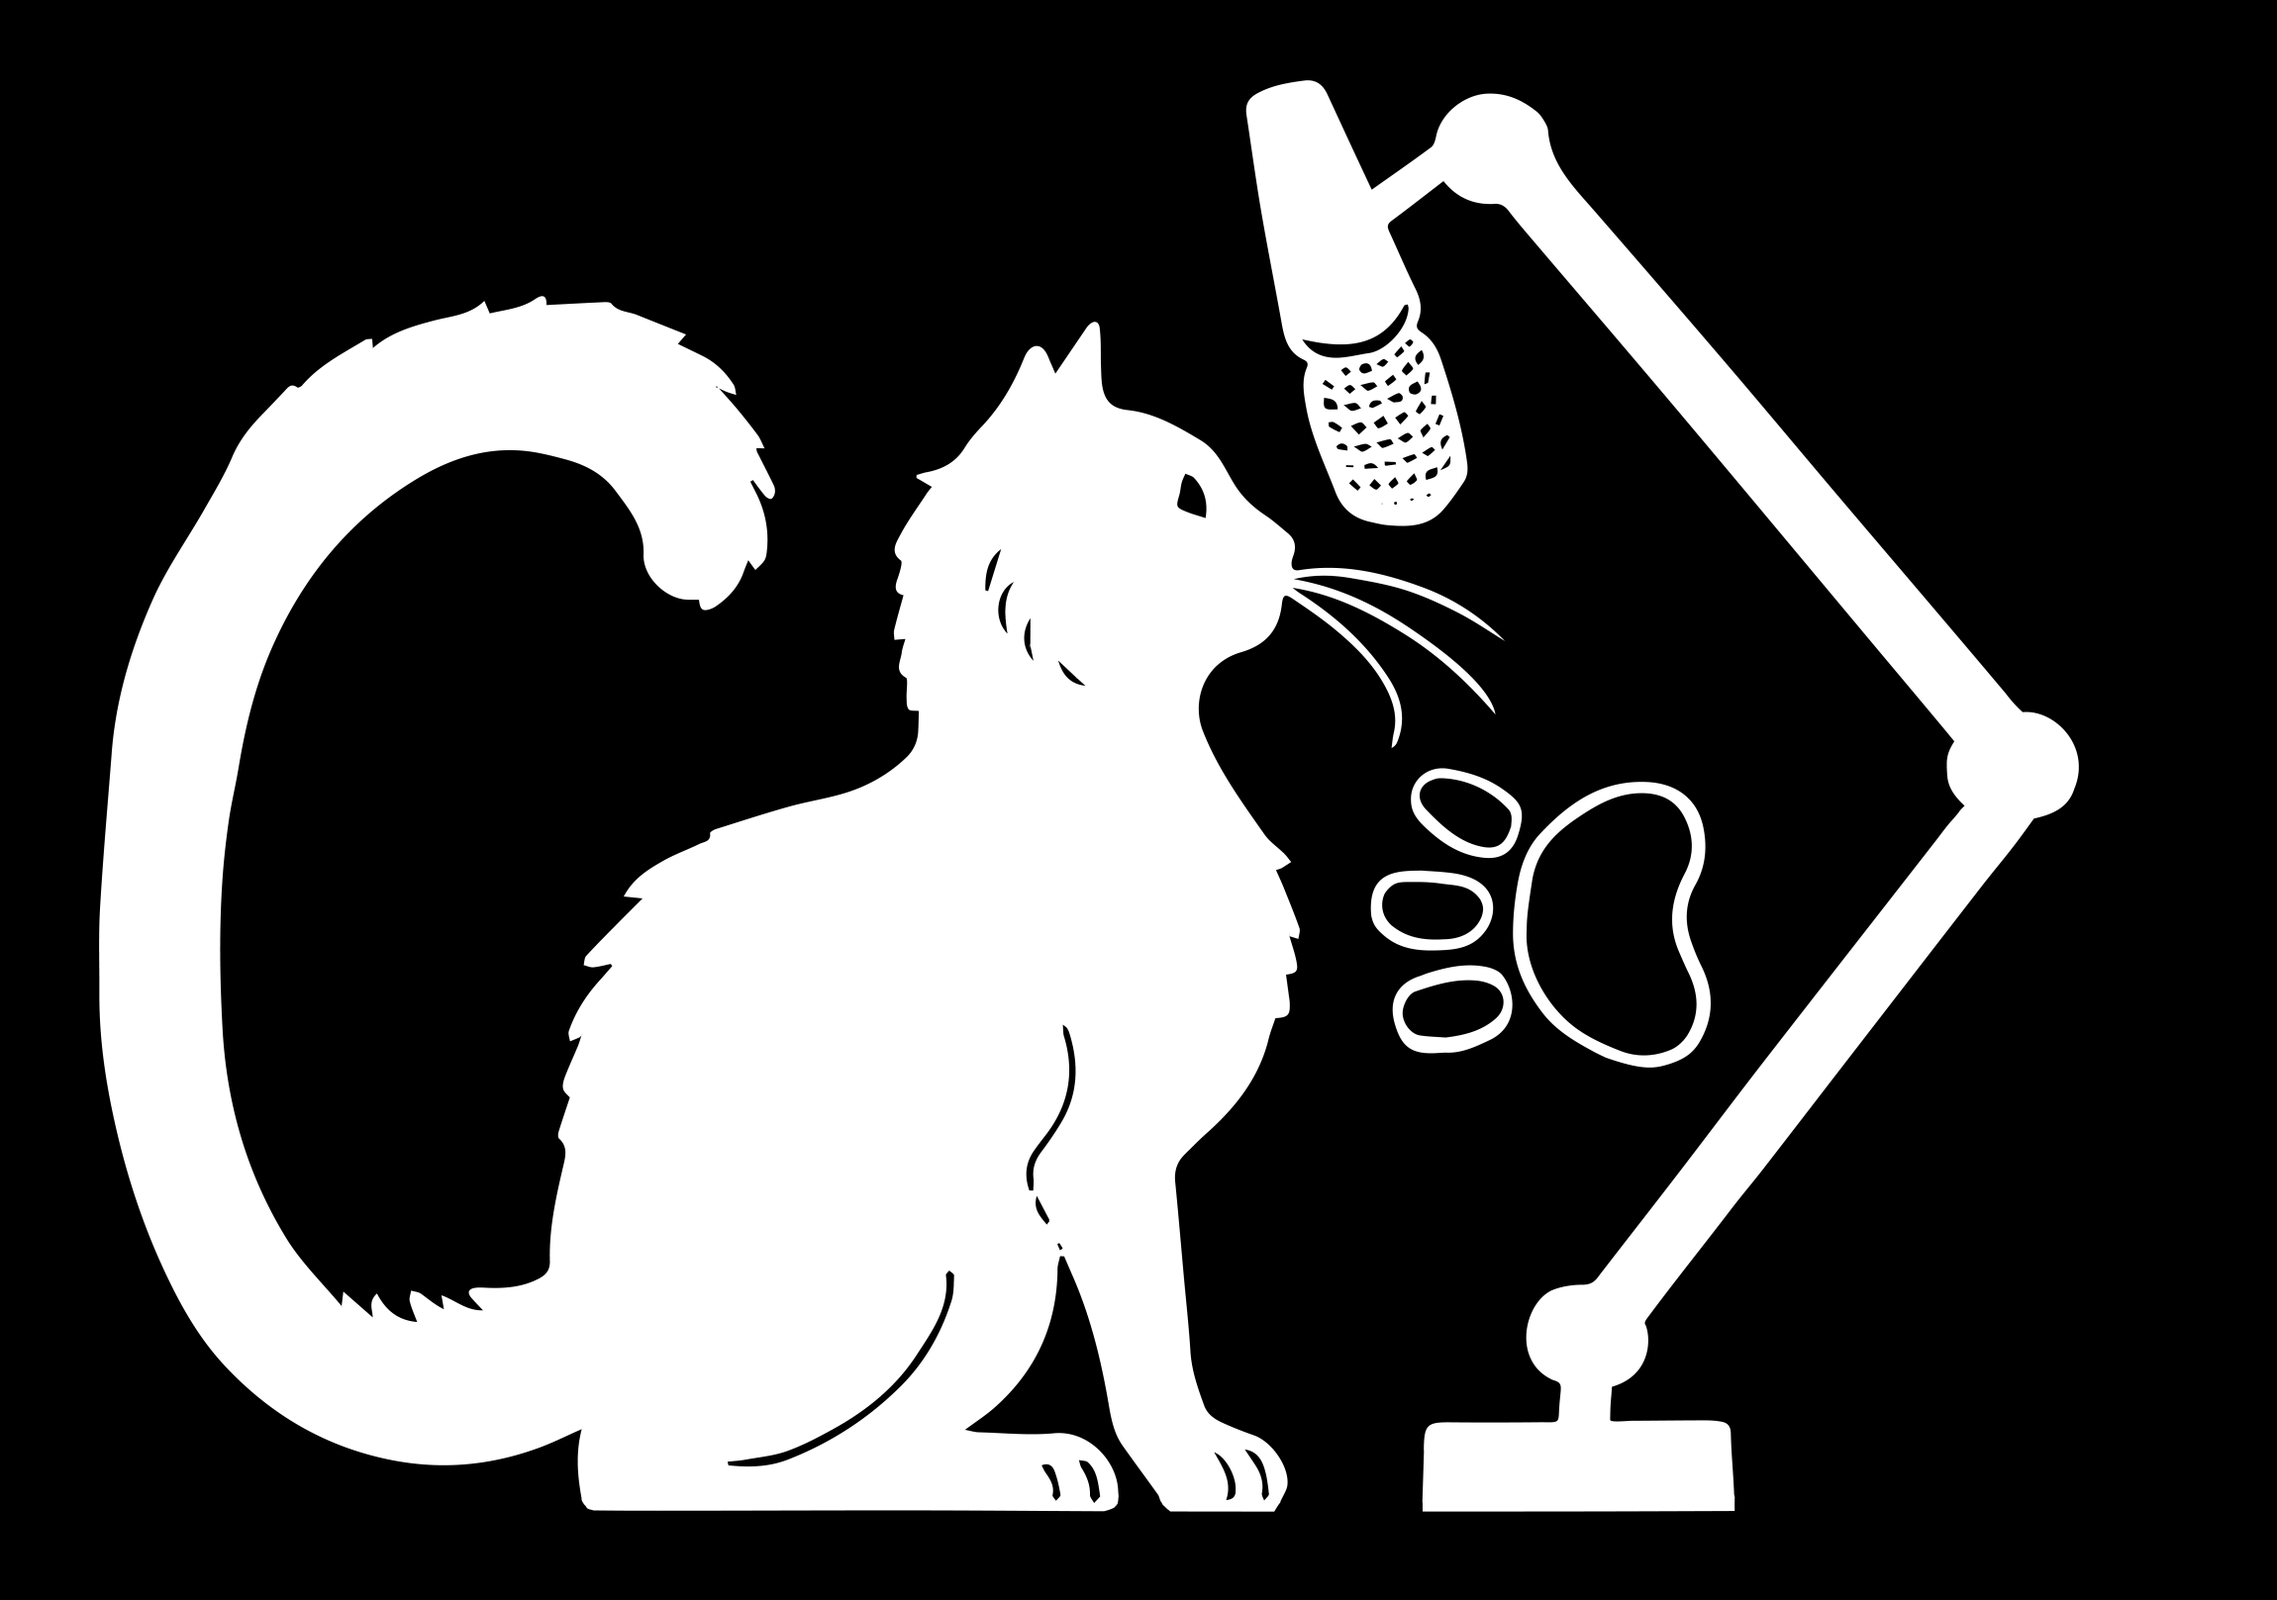
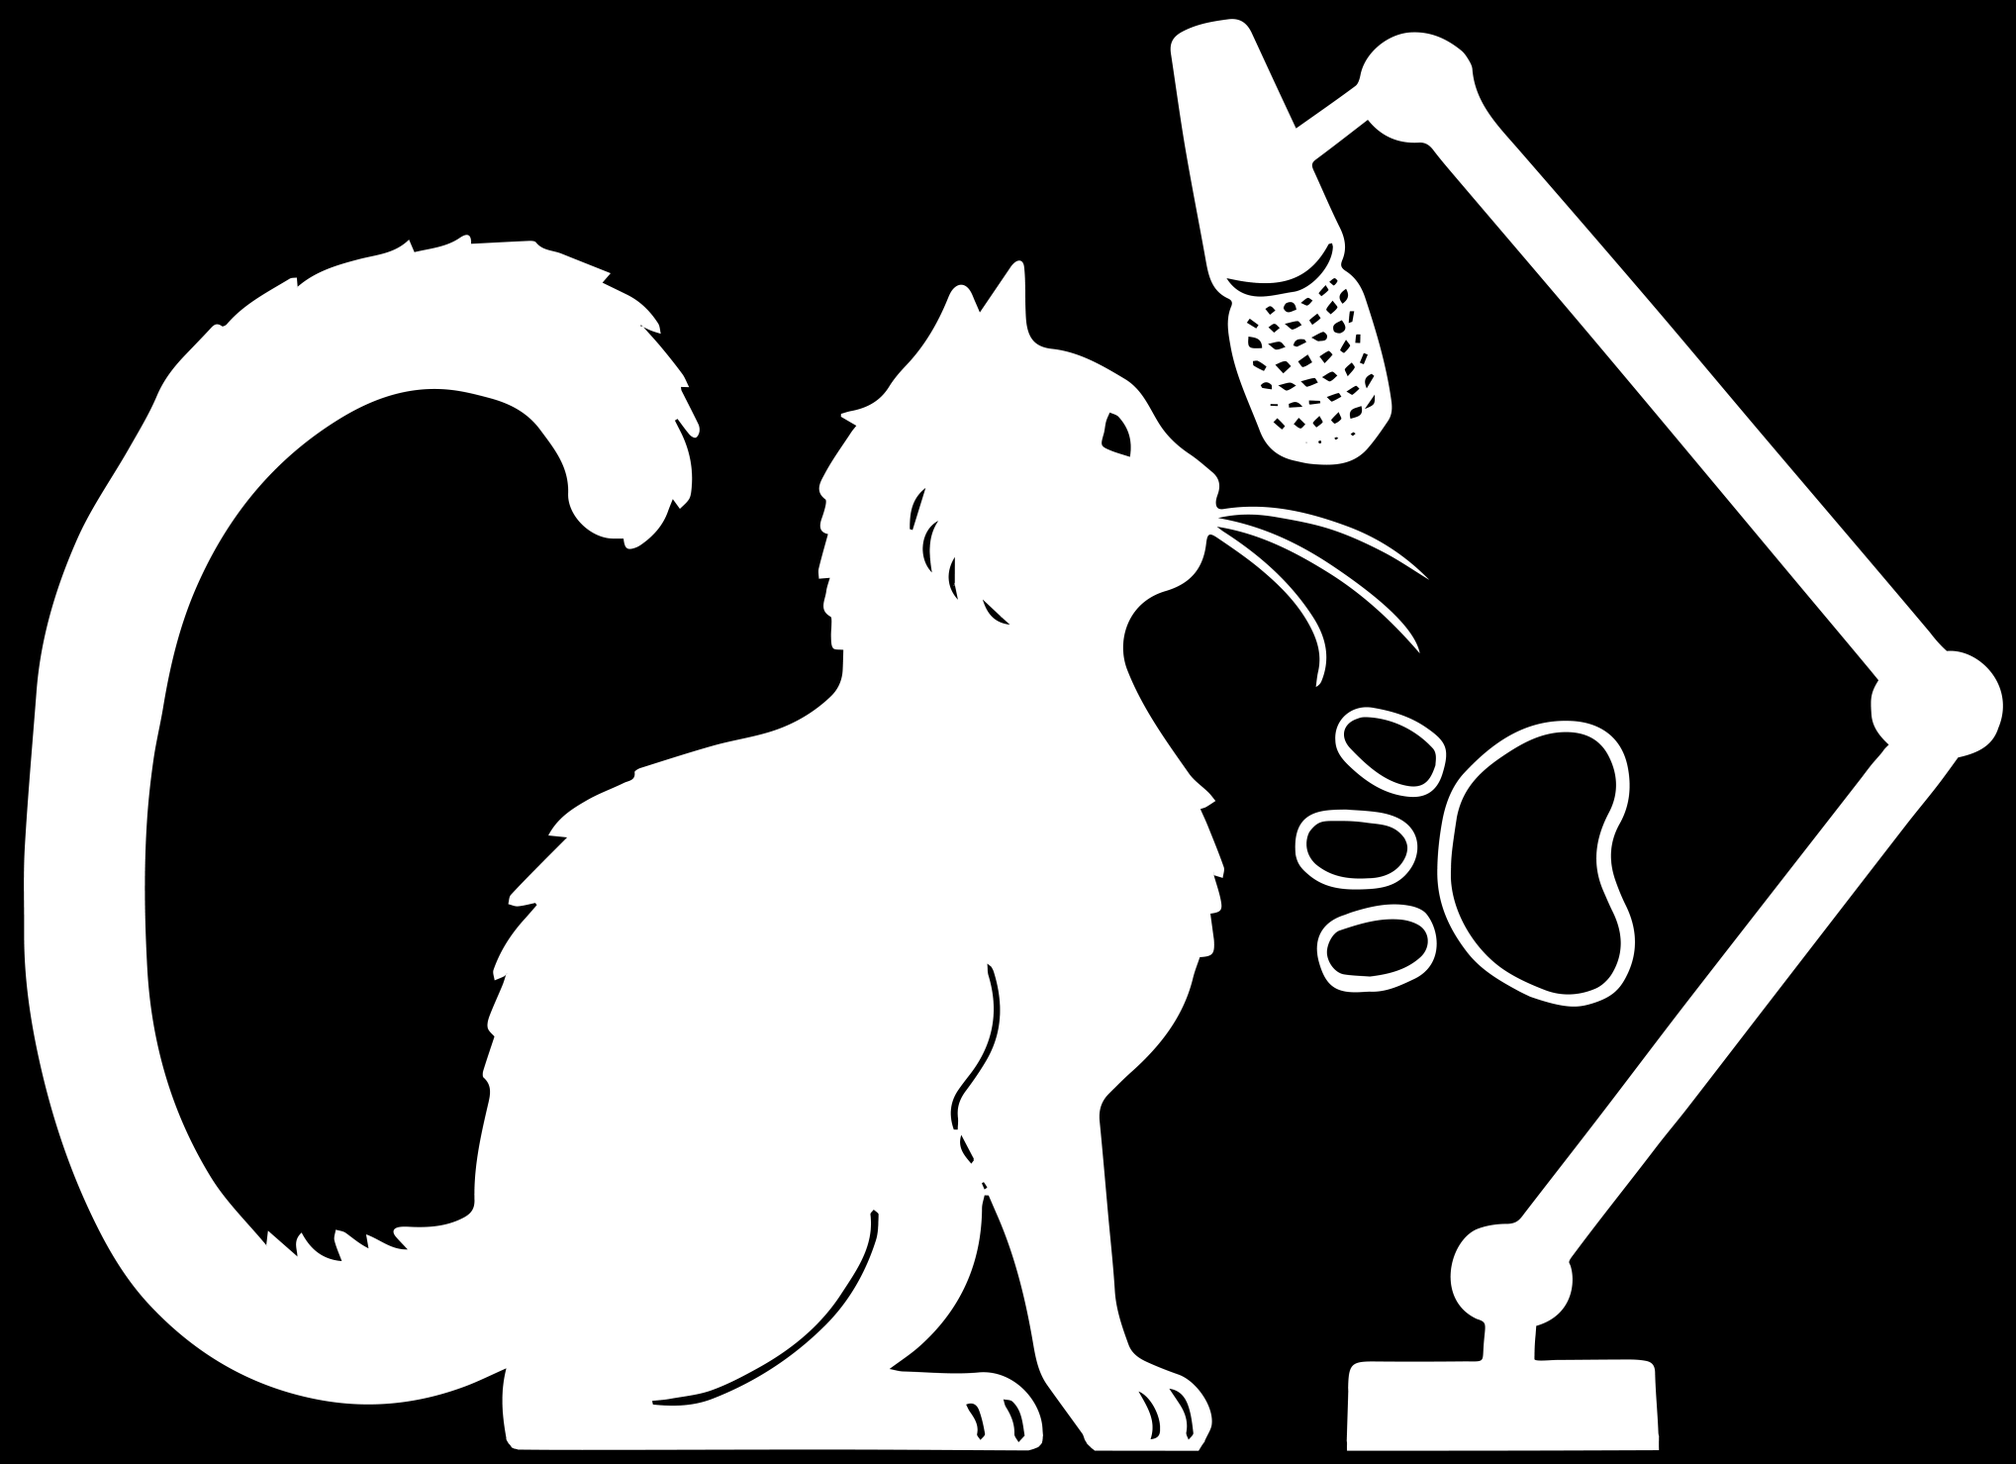
Fix background for small devices

diff --git a/src/pages/index.module.css b/src/pages/index.module.css
@@ -4,12 +4,16 @@
  */
 
 .heroBanner {
-  min-height: calc(100vh);
-  background: black url('/img/cdc.png') no-repeat fixed right center;
+  min-height: calc(90vh);
   overflow: hidden;
-  background-size: auto 60%;
-  border: 10px black;
   text-shadow: rgb(0, 0, 0) 4px 0px 0px, rgb(0, 0, 0) 3.87565px 0.989616px 0px, rgb(0, 0, 0) 3.51033px 1.9177px 0px, rgb(0, 0, 0) 2.92676px 2.72656px 0px, rgb(0, 0, 0) 2.16121px 3.36588px 0px, rgb(0, 0, 0) 1.26129px 3.79594px 0px, rgb(0, 0, 0) 0.282949px 3.98998px 0px, rgb(0, 0, 0) -0.712984px 3.93594px 0px, rgb(0, 0, 0) -1.66459px 3.63719px 0px, rgb(0, 0, 0) -2.51269px 3.11229px 0px, rgb(0, 0, 0) -3.20457px 2.39389px 0px, rgb(0, 0, 0) -3.69721px 1.52664px 0px, rgb(0, 0, 0) -3.95997px 0.56448px 0px, rgb(0, 0, 0) -3.97652px -0.432781px 0px, rgb(0, 0, 0) -3.74583px -1.40313px 0px, rgb(0, 0, 0) -3.28224px -2.28625px 0px, rgb(0, 0, 0) -2.61457px -3.02721px 0px, rgb(0, 0, 0) -1.78435px -3.57996px 0px, rgb(0, 0, 0) -0.843183px -3.91012px 0px, rgb(0, 0, 0) 0.150409px -3.99717px 0px, rgb(0, 0, 0) 1.13465px -3.8357px 0px, rgb(0, 0, 0) 2.04834px -3.43574px 0px, rgb(0, 0, 0) 2.83468px -2.82216px 0px, rgb(0, 0, 0) 3.44477px -2.03312px 0px, rgb(0, 0, 0) 3.84068px -1.11766px 0px, rgb(0, 0, 0) 3.9978px -0.132717px 0px;
+  background: transparent;
+}
+
+body {
+  background: black url('/img/cdc.png') no-repeat fixed;
+  background-size: auto 80%;
+  background-position: right 10% top 10%;
 }
 
 footer {
